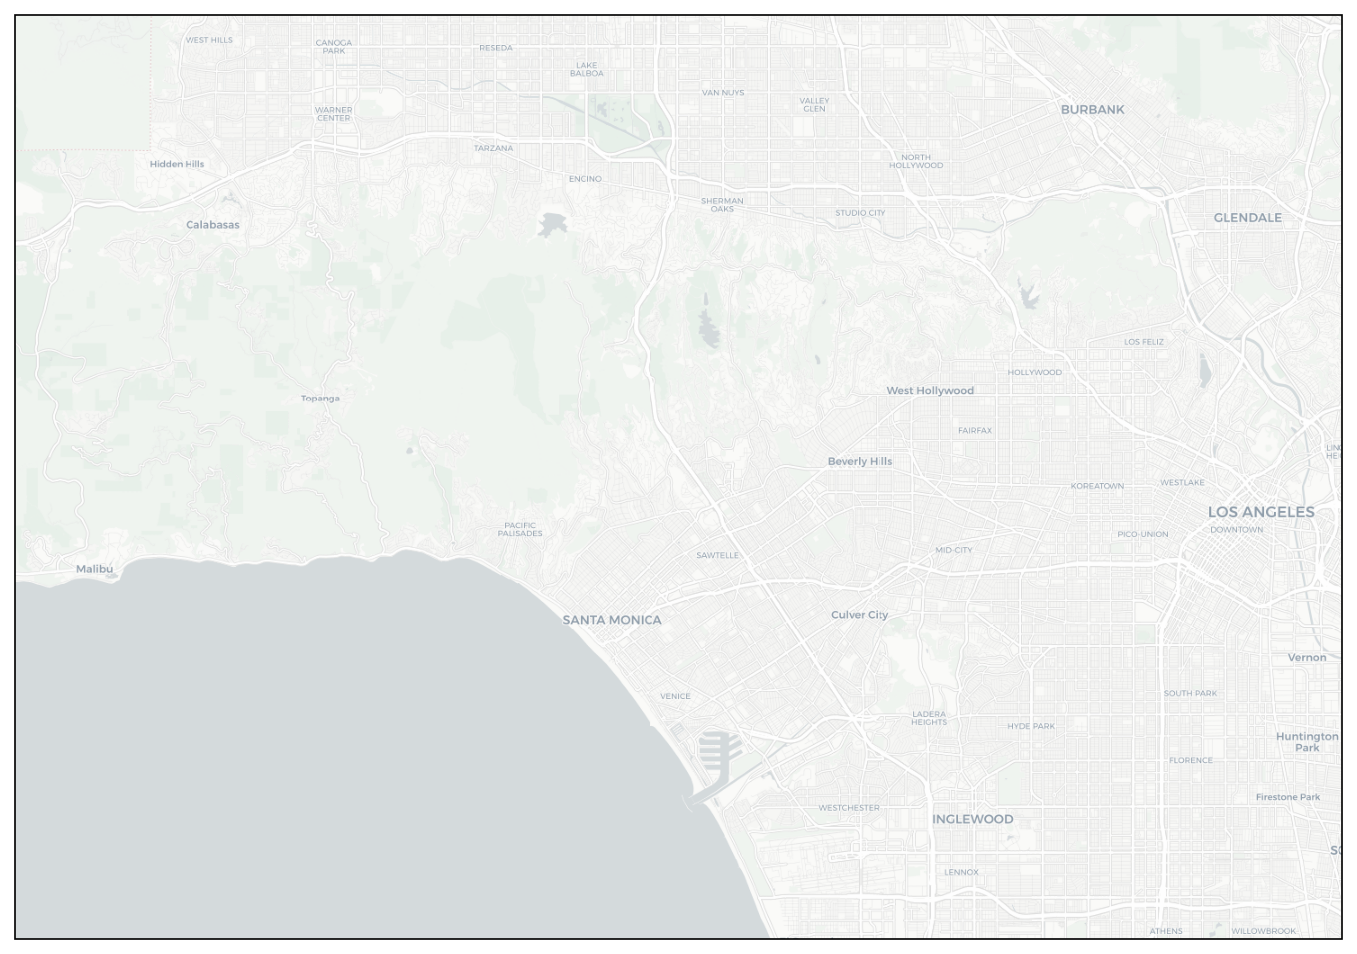
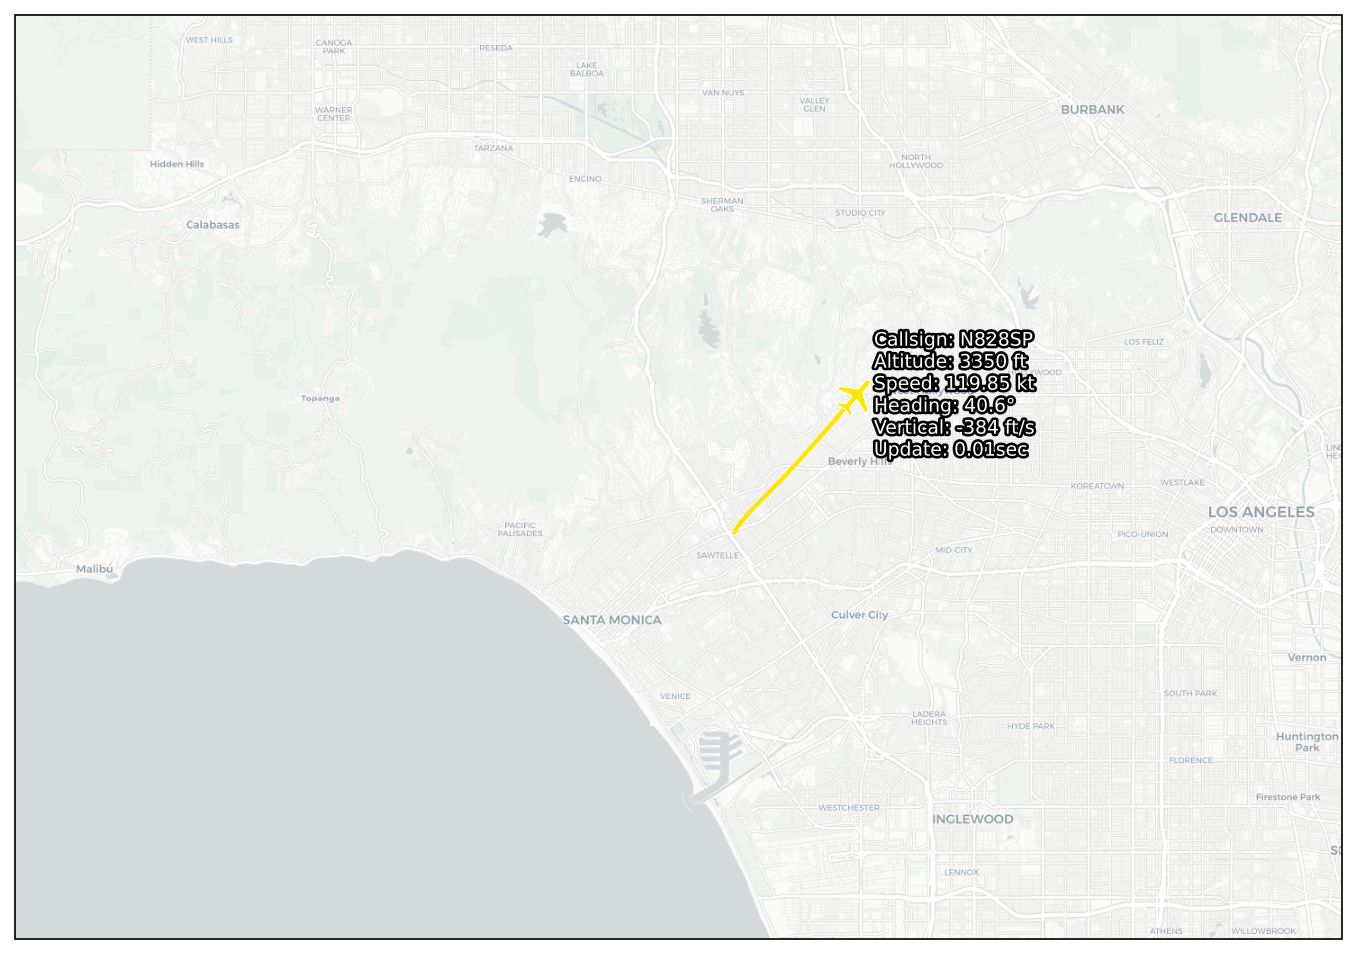
Add ADSB tx

Changed region(s): [[0.5881, 0.3344, 0.7738, 0.4864], [0.5571, 0.4864, 0.5881, 0.5168]]

diff --git a/adsb_tx.py b/adsb_tx.py
@@ -5,20 +5,22 @@ import threading
 import matplotlib.pyplot as plt
 import cartopy.crs as ccrs
 import cartopy.feature as cfeature
+import folium
 
-
+_POLY_STR = "1111111111111010000001001"
+_POLY_LEN = len(_POLY_STR)
+_POLY_INT = int(_POLY_STR, 2)
 
 def check_crc(binary_adsb):
-    generator_poly = list("1111111111111010000001001") #Generator Polynomial for ADSB
-    CRC_parity = binary_adsb[-24:] #Parity Check at the end of each Message
-    #Perform Parity Check (Plug and Play)
-    Mx = list(binary_adsb[:-24] + "0" * 24)
-    for i in range(len(Mx) - 24):
-        if Mx[i] == "1":
-            for j in range(len(generator_poly)):
-                Mx[i + j] = str(int(Mx[i + j]) ^ int(generator_poly[j]))
-    remainder = "".join(Mx[-24:])
-    return remainder == CRC_parity
+    msg_len = len(binary_adsb) - 24
+    reg = int(binary_adsb[:msg_len], 2) << 24
+    parity = int(binary_adsb[-24:], 2)
+    total_bits = msg_len + 24
+    for i in range(msg_len):
+        bit_pos = total_bits - 1 - i
+        if (reg >> bit_pos) & 1:
+            reg ^= _POLY_INT << (bit_pos - (_POLY_LEN - 1))
+    return (reg & ((1 << 24) - 1)) == parity
 
 def decode_callsign(me_field):
     char_assignment = "#ABCDEFGHIJKLMNOPQRSTUVWXYZ##### ###############0123456789######" #Keyword Encoding for ADSB
@@ -297,6 +299,18 @@ from matplotlib.markers import MarkerStyle
 import matplotlib.patheffects as pe
 from matplotlib.transforms import Affine2D
 
+def _airplane_icon_html(heading, color="#ffe600"):
+    rotation = heading if heading is not None else 0
+    return f"""
+    <div style="transform: rotate({rotation}deg); transform-origin: 50% 50%;
+                width: 26px; height: 26px;">
+        <svg viewBox="0 0 24 24" width="26" height="26">
+            <path d="M9.333333333333332 5.964913333333333 14.666666666666666 9.333333333333332v1.3333333333333333l-5.333333333333333 -1.6842v3.5730666666666666L11.333333333333332 13.666666666666666V14.666666666666666l-3 -0.6666666666666666L5.333333333333333 14.666666666666666v-1l2 -1.1111333333333333v-3.5730666666666666L2 10.666666666666666v-1.3333333333333333l5.333333333333333 -3.3684199999999995V2.333333333333333c0 -0.5522866666666666 0.4477333333333333 -1 1 -1s1 0.4477133333333333 1 1v3.63158Z"
+                  fill="{color}" stroke="#ffffff" stroke-width="0.6"/>
+        </svg>
+    </div>
+    """
+
 _LABEL_OUTLINE = [pe.withStroke(linewidth=2.5, foreground="black")]
 
 _PLANE_VERTS = [
@@ -367,6 +381,77 @@ def try_load_basemap():
     except Exception as e:
         print(f"Basemap unavailable (no internet?), continuing without it: {e}")
 
+def build_folium_map(df, center_lat, center_lon, zoom, auto_refresh_seconds, out_path="map.html"):
+    if df.empty:
+        view_lat, view_lon = center_lat, center_lon
+    else:
+        latest = df.loc[df["last_seen"].idxmax()]
+        view_lat, view_lon = latest["lat"], latest["lon"]
+   
+    m = folium.Map(location=[view_lat, view_lon], zoom_start=zoom, tiles="Cartodb Positron")
+
+    for _, row in df.iterrows():
+        icon = folium.DivIcon(
+            html=_airplane_icon_html(row["heading"]),
+            icon_size=(26, 26),
+            icon_anchor=(13, 13),
+        )
+        label_html = (
+            f"<b>{row['callsign']}</b><br>"
+            f"Alt: {_fmt(row['altitude'], ' ft')}<br>"
+            f"Spd: {_fmt(row['speed'], ' kt')}<br>"
+            f"Hdg: {_fmt(row['heading'], '\u00b0')}<br>"
+            f"Vsp: {_fmt(row['vertical_rate'], ' ft/s')}<br>"
+            f"Upd: {_fmt(row['last_seen'], '')}<br>"
+        )
+ 
+        folium.Marker(
+            location=[row["lat"], row["lon"]],
+            icon=icon,
+            tooltip=folium.Tooltip(
+                label_html,
+                permanent=True,
+                direction="right",
+                offset=(0, 0),
+                sticky=False,
+            ),
+        ).add_to(m)
+        history = row["recorded"]
+
+        if len(history) >= 2:
+            folium.PolyLine(
+                locations=history,
+                color="red",
+                weight=2,
+                opacity=0.8,
+            ).add_to(m)
+ 
+    if auto_refresh_seconds:
+        m.get_root().html.add_child(folium.Element(
+            f'<meta http-equiv="refresh" content="{auto_refresh_seconds}">'
+        ))
+
+    m.get_root().html.add_child(folium.Element("""
+        <style>
+        .leaflet-tooltip {
+            background: transparent !important;
+            border: none !important;
+            box-shadow: none !important;
+            color: #ffffff;
+            font-size: 11px;
+            line-height: 1.3;
+            text-shadow: 0 0 3px #000000, 0 0 3px #000000, 0 0 3px #000000;
+        }
+        .leaflet-tooltip-right:before,
+        .leaflet-tooltip-left:before {
+            display: none !important;
+        }
+        </style>
+    """))
+ 
+    m.save(out_path)
+    return out_path
+
 
 def render_frame(df):
     ax = _map_state["ax"]
@@ -403,7 +488,7 @@ def render_frame(df):
 
     fig.savefig("map.png", dpi=150, bbox_inches="tight")
 
-### ----------------------------------------------- ###
+
 from compression import compress_24_to_8
 import imageio.v3 as iio
 import scipy.signal as signal
@@ -432,7 +517,7 @@ def transmit_map(path="map.png"):
     try:
         img = Image.open(path).resize((width, height)).convert("RGB")
         if compression:
-            values = compress_24_to_8(img)
+            values = compress_24_to_8(np.asarray(img, dtype=np.uint8))
         else:
             values = np.asarray(img, dtype=np.uint8)
         payload = np.array(values).tobytes()
@@ -446,15 +531,15 @@ def transmit_map(path="map.png"):
    
 
 #Pluto
-sdr = adi.Pluto("usb:1.1.5")
+sdr = adi.Pluto("usb:3.1.5")
 
 # RX config
 sdr.rx_lo = int(1090e6)
-sdr.sample_rate = int(2e6)
 sdr.rx_rf_bandwidth = int(4e6)
 sdr.gain_control_mode_chan0 = "manual"
 sdr.rx_hardwaregain_chan0 = 40
 sdr.rx_buffer_size = int(2e6)
+sdr.sample_rate = int(2e6)
 sdr.rx_destroy_buffer()
 
 # TX config — same object, independent TX chain
@@ -465,7 +550,9 @@ sdr.tx_hardwaregain_chan0 = -10
 tx = PlutoTransmitter()
 tx.set_sdr(sdr)                 # pass the SAME sdr object, not sdr_tx
 tx.set_channel(1)
+tx.set_sample_rate(int(2e6))
 tx.set_power_level(90)
+
 
 
 setup_map()
@@ -491,9 +578,15 @@ while True:
     df = logbook_to_pandaframe(logbook)
     if previous_df is None or not df.equals(previous_df):
         try_load_basemap()
-        render_frame(df)
-    # threading.Thread(target=transmit_map, daemon=True).start()
-    transmit_map()
+        render_frame(df)  
+        build_folium_map(
+            df,
+            center_lat=34.072237,
+            center_lon=-118.452894,
+            auto_refresh_seconds=1,
+            zoom = 12,
+        )
+    threading.Thread(target=transmit_map, daemon=True).start()
     previous_samples = magnitudes[-240:]
     previous_df = df
 

diff --git a/common.py b/common.py
@@ -2,11 +2,11 @@ from reedsolo import RSCodec
 import sys
 rsc = RSCodec(128)
 
-compression = True
+compression = False
 # 3 for 24 bit, 1 for 8 bit
 bytes_per_pixel = 1 if compression else 3
 frames_per_transmission = 1
-seconds_per_transmission = 2.0
+seconds_per_transmission = 1.0
 seconds_per_frame = seconds_per_transmission / frames_per_transmission
 width = 80
 height = 80

diff --git a/main_rx.py b/main_rx.py
@@ -19,8 +19,9 @@ from common import *
 sdr_rx = adi.Pluto("usb:1.1.5")
 rx = PlutoReceiver()
 rx.set_sdr(sdr_rx)
-rx.set_buffer_size(8e5)
+rx.set_buffer_size(2e6)
 rx.set_channel(1)
+rx.set_sample_rate(int(2e6))
 rx.set_gain_level(80)
 rx.desired_transmit_symbols_real = False
 
